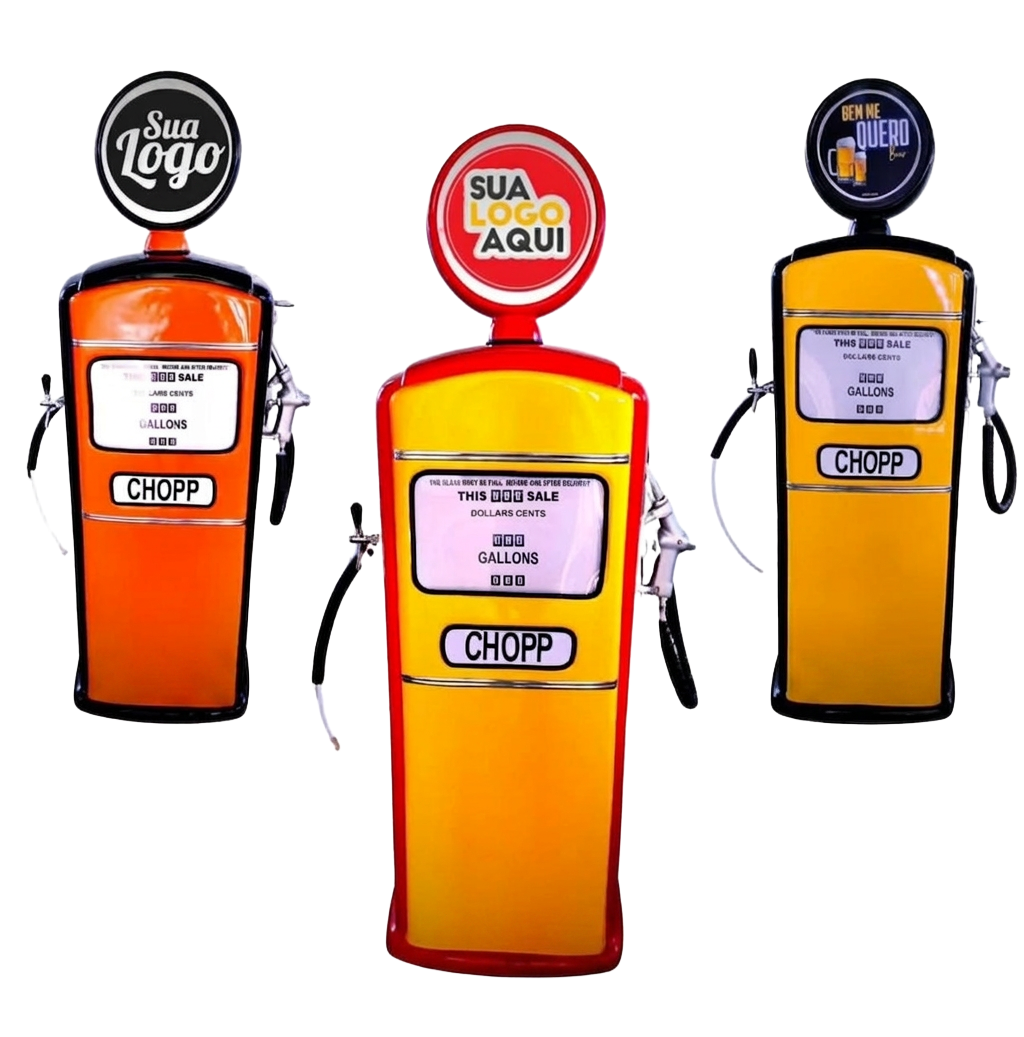
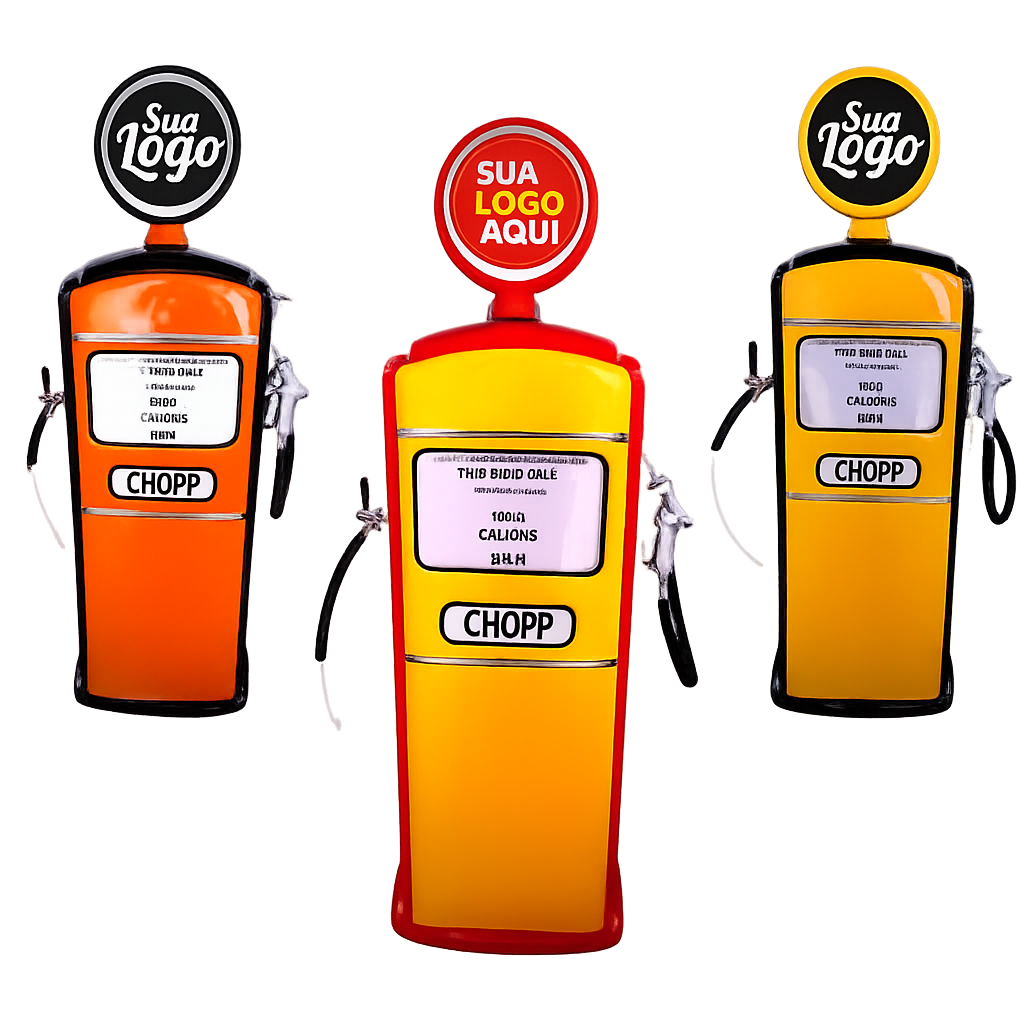
testar proposta2

diff --git a/index.html b/index.html
@@ -28,7 +28,7 @@
           A chopeira retrô da <strong>Dona do Chopp</strong> transforma cada copo
           em lucro e a sua marca em desejo.
         </p> -->
-            <img src="chopeiras2.png" alt="" class="chopeiras float" aria-hidden="true" />
+            <img src="chopeiras.png" alt="" class="chopeiras float" aria-hidden="true" />
 
         <ul class="benefits">
           <li><span>💸</span> Retorno do investimento em poucos eventos</li>
